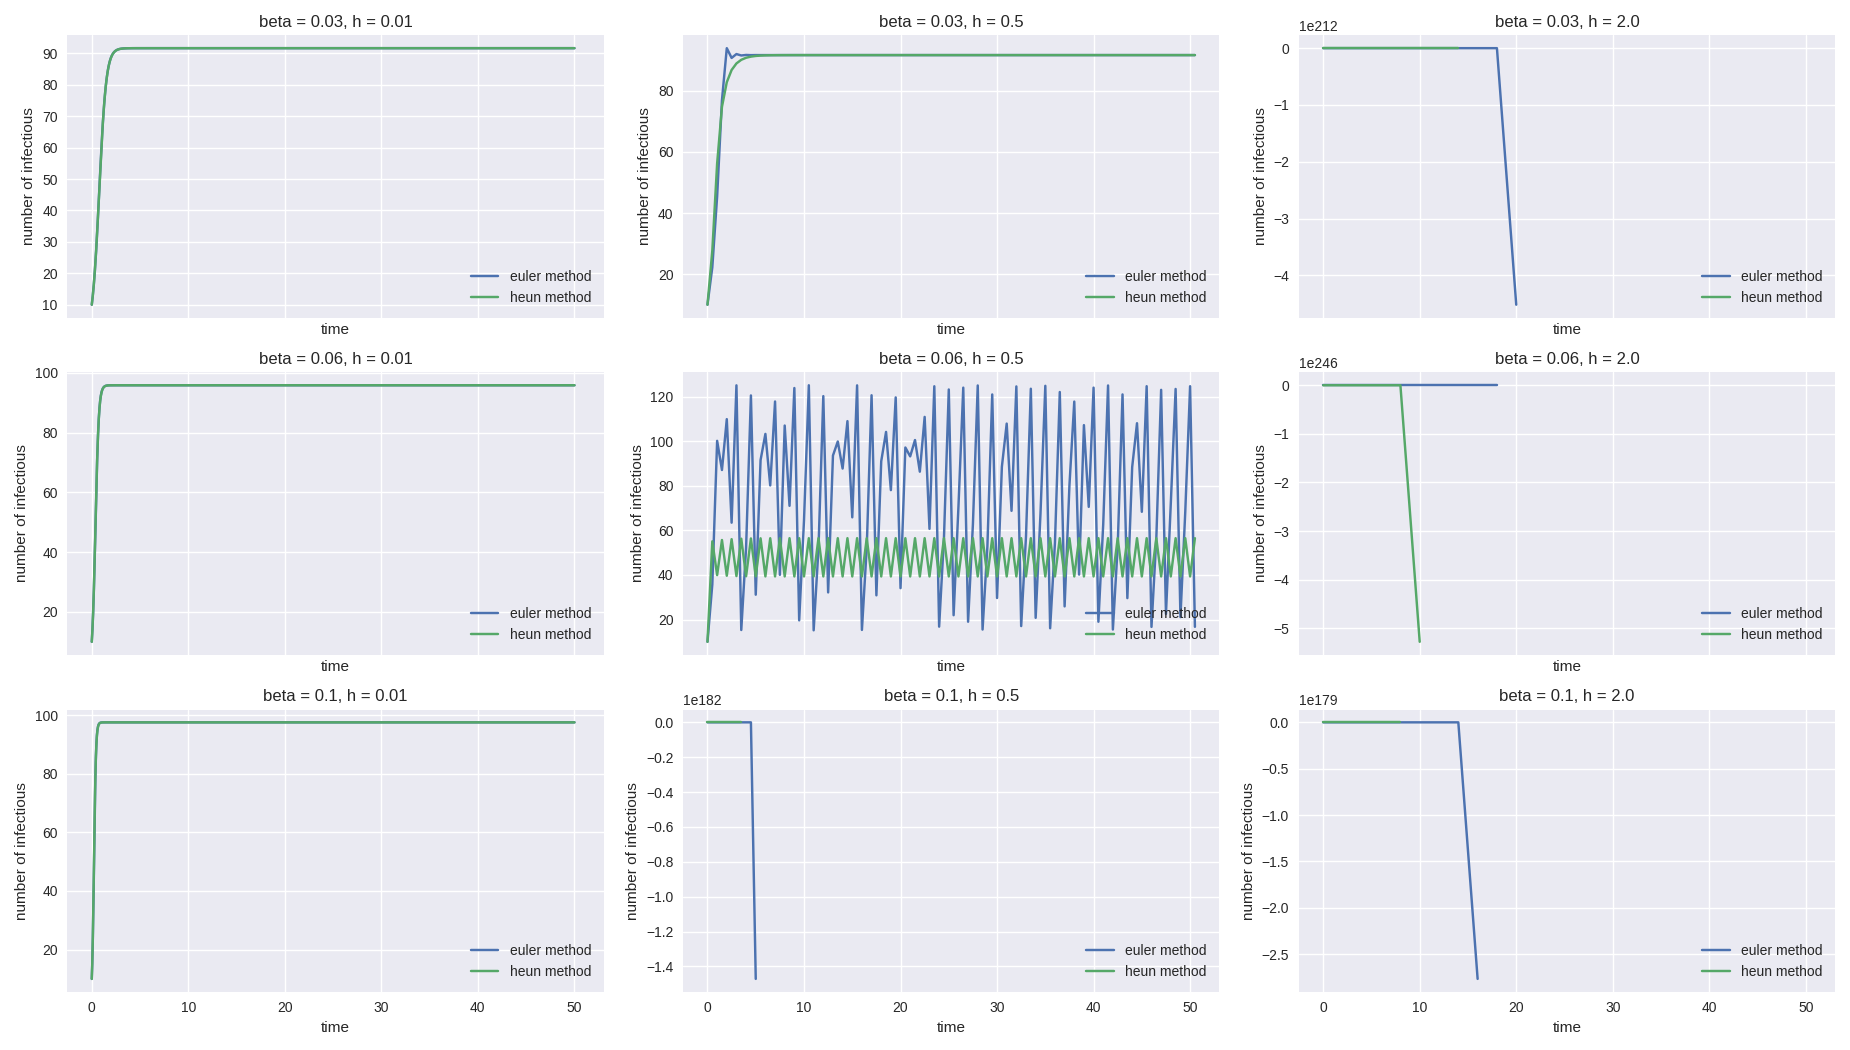
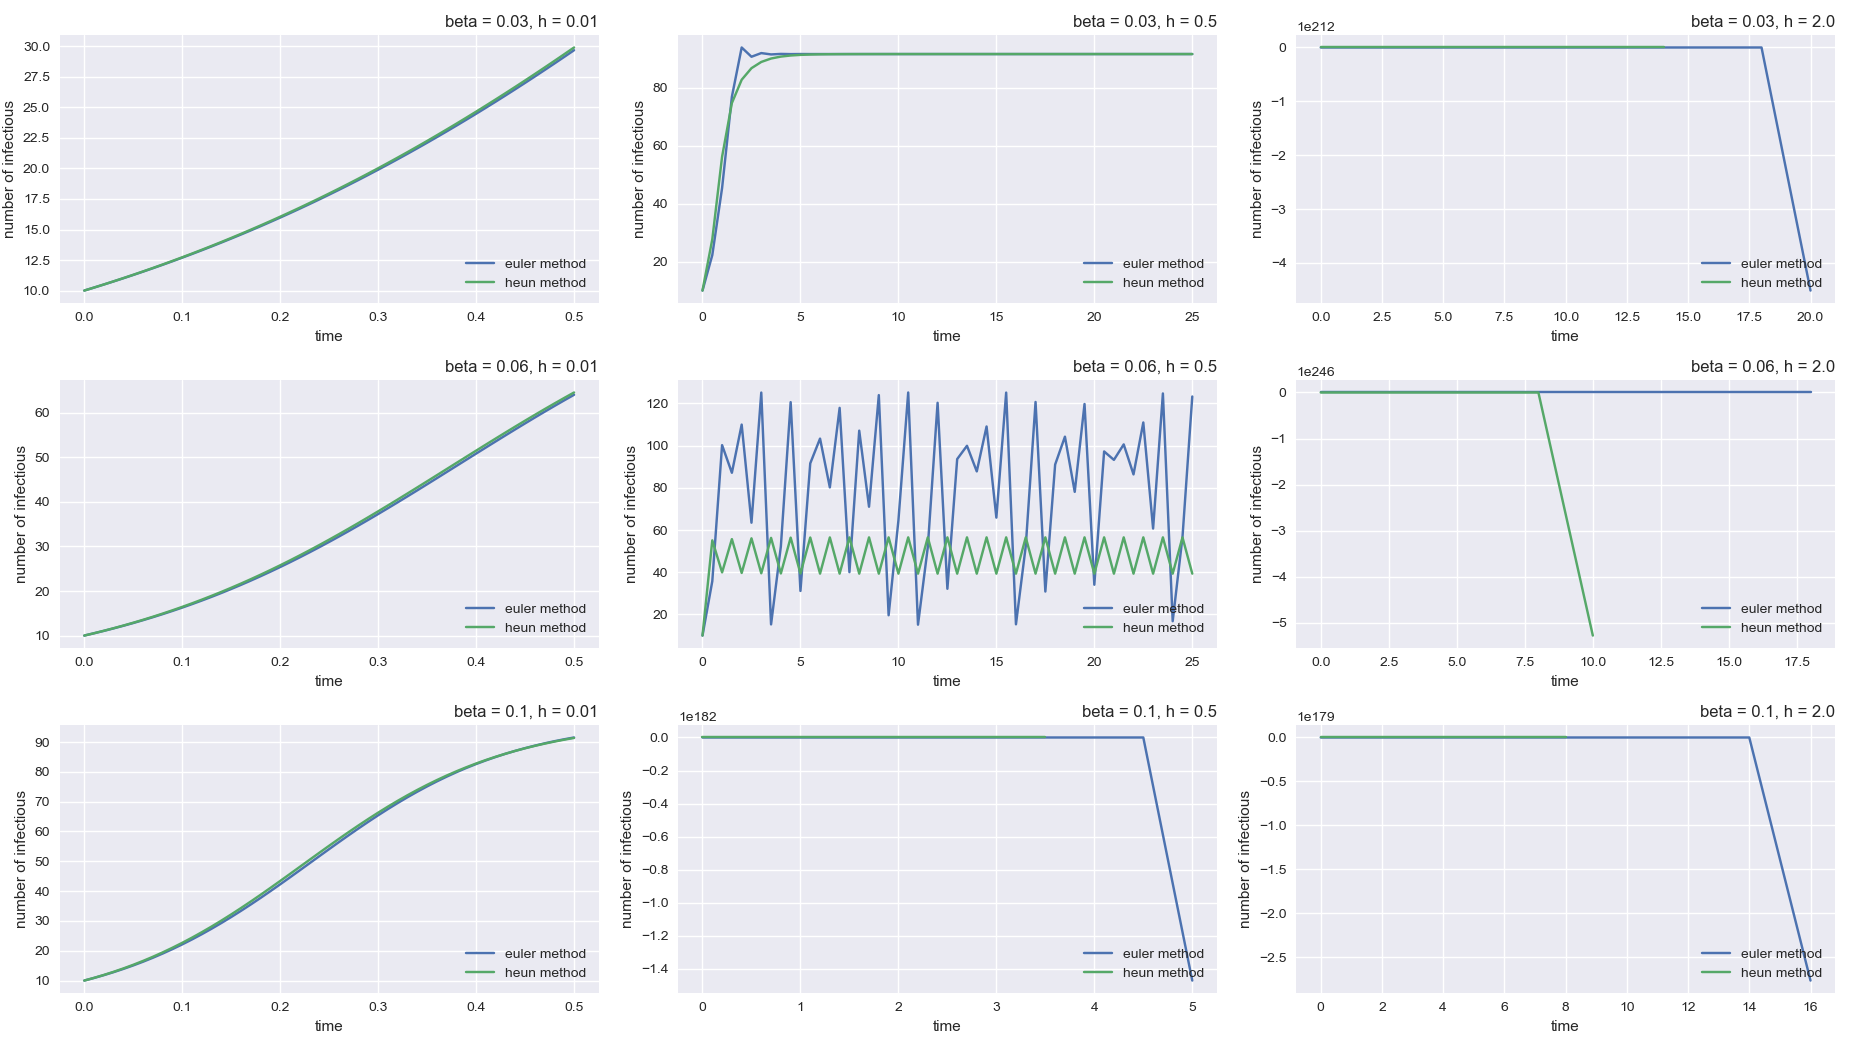
change P3 P4

diff --git a/assignment1/P3/SIS_Model_Simulation.py b/assignment1/P3/SIS_Model_Simulation.py
@@ -15,7 +15,7 @@ plt.style.use('seaborn')
 N = 100
 gamma =  0.25
 
-fig1, axes1 = plt.subplots(nrows=3, ncols=3, sharex=True)
+fig1, axes1 = plt.subplots(nrows=3, ncols=3, sharex=False)
 fig1.set_size_inches(18.5, 10.5)
 
 for beta, row in zip([0.03, 0.06, 0.1], range(0, 3)):
@@ -26,7 +26,7 @@ for beta, row in zip([0.03, 0.06, 0.1], range(0, 3)):
         # set parameters
         I_initial = 10
         a = 0
-        b = 50
+        b = 50 * h
         
         # run integrator and collect data
         t_list_euler, I_list_euler = euler_method(I_dot, I_initial, a, b, h)
@@ -41,7 +41,7 @@ for beta, row in zip([0.03, 0.06, 0.1], range(0, 3)):
                 label='heun method')
         ax.set_xlabel('time')
         ax.set_ylabel('number of infectious')
-        ax.set_title('beta = {}, h = {}'.format(beta, h))
+        ax.set_title('beta = {}, h = {}'.format(beta, h), loc='right')
         ax.legend(loc='lower right')
 
 plt.tight_layout()

diff --git a/assignment1/P3/euler_method.py b/assignment1/P3/euler_method.py
@@ -23,7 +23,7 @@ def euler_method(y_dot, initial_condition, a, b, h):
     y_list = [initial_condition]
     
     # compute y value inductiively
-    while t <= b:
+    while t < b:
         y = y + y_dot(t, y)*h  # compute next y value using the current y value
         y_list.append(y)
         t = t + h

diff --git a/assignment1/P3/heun_method.py b/assignment1/P3/heun_method.py
@@ -23,7 +23,7 @@ def heun_method(y_dot, initial_condition, a, b, h):
     y_list = [initial_condition]
     
     # compute y value inductiively
-    while t <= b:
+    while t < b:
         y_pre = y + h * y_dot(t, y)
         y = y + (h/2)*(y_dot(t, y) + y_dot(t + h, y_pre))
         t = t + h
